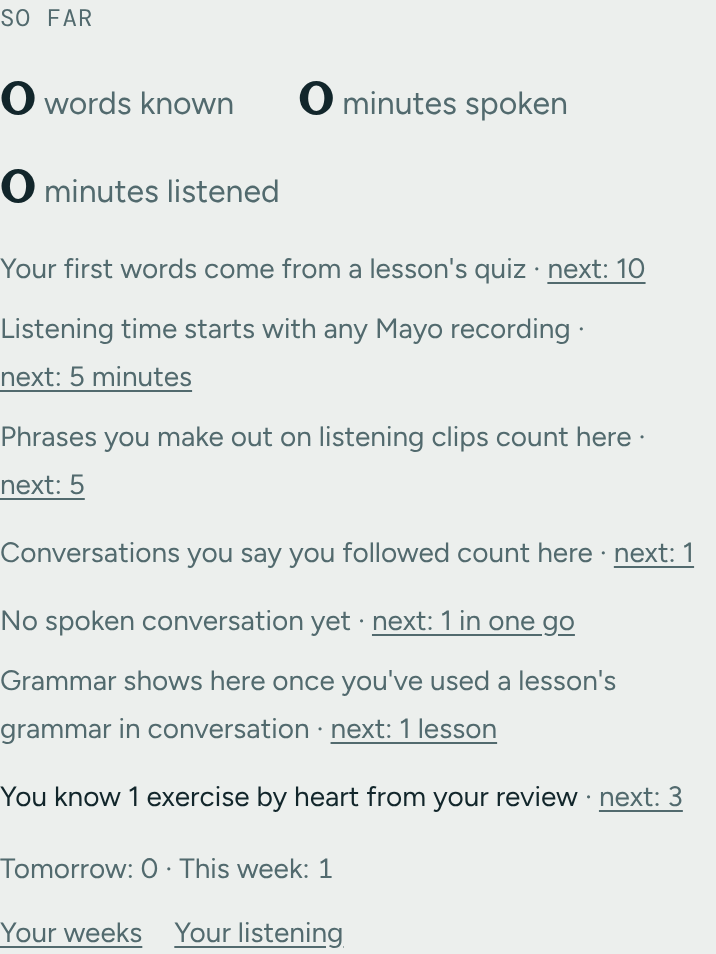
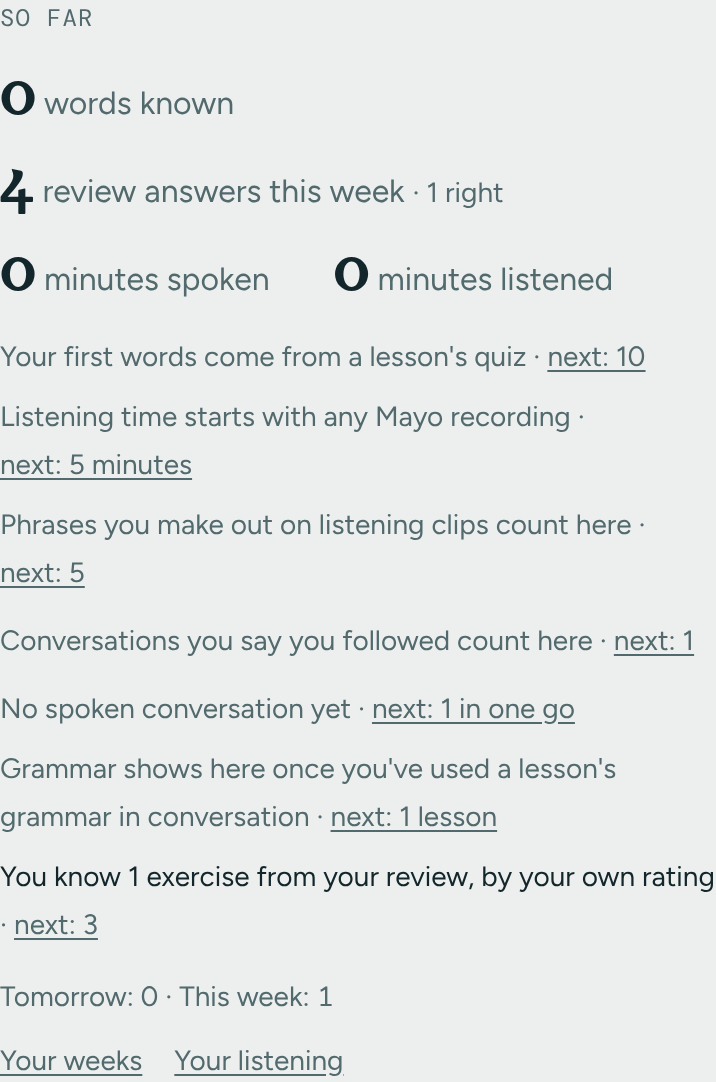
Review fixes: honest copy for a self-rated count, tests for each filter
Claude-Session: https://claude.ai/code/session_017wWQSAnFZTgdRfow7GMFq8

diff --git a/test/models/milestones_test.rb b/test/models/milestones_test.rb
@@ -150,27 +150,50 @@ class MilestonesTest < ActiveSupport::TestCase
     assert_equal 1, followed.call.reached
   end
 
+  def exercise_strand = Milestones.new(@user, known_words: 0).strands.find { |s| s.key == :exercises }
+
+  def known_review(question, stability: QuizReview::KNOWN_STABILITY)
+    QuizReview.create!(user: @user, quiz_question: question, fsrs_state: QuizReview::REVIEW_STATE, stability: stability, due_at: 1.day.from_now)
+  end
+
   test "exercises known count once the course has an answered exercise" do
     assert_not_includes Milestones.new(@user, known_words: 0).strands.map(&:key), :exercises
 
     exercise = exercises(:one)
     exercise.update!(answer: "Dia dhuit")
     QuizQuestion.sync_for(lessons(:one))
-    strand = Milestones.new(@user, known_words: 0).strands.find { |s| s.key == :exercises }
-    assert_equal 0, strand.value
-    assert_equal 1, strand.next_step
+    assert_equal 0, exercise_strand.value
+    assert_equal 1, exercise_strand.next_step
 
-    question = QuizQuestion.find_by!(source: exercise)
-    review = QuizReview.create!(user: @user, quiz_question: question, fsrs_state: QuizReview::REVIEW_STATE, stability: 3.0, due_at: 1.day.from_now)
-    assert_equal 0, Milestones.new(@user, known_words: 0).strands.find { |s| s.key == :exercises }.value, "not yet stable"
+    review = known_review(QuizQuestion.find_by!(source: exercise), stability: 3.0)
+    assert_equal 0, exercise_strand.value, "not yet stable"
 
     review.update!(stability: QuizReview::KNOWN_STABILITY)
-    strand = Milestones.new(@user, known_words: 0).strands.find { |s| s.key == :exercises }
-    assert_equal 1, strand.value
-    assert_equal 1, strand.reached
-    assert_equal 3, strand.next_step
+    assert_equal 1, exercise_strand.value
+    assert_equal 1, exercise_strand.reached
+    assert_equal 3, exercise_strand.next_step
 
     exercise.update!(answer: "")
     assert_not_includes Milestones.new(@user, known_words: 0).strands.map(&:key), :exercises
+  end
+
+  test "known words, exercises whose answer was removed and exercises in hidden lessons don't count" do
+    lessons(:one).exercises.create!(number: 2, prompt: "Another", answer: "Freagra", position: 2)
+    exercise = exercises(:one)
+    exercise.update!(answer: "Dia dhuit")
+    QuizQuestion.sync_for(lessons(:one))
+    known_review(lessons(:one).quiz_questions.word_cards.first)
+    known_review(QuizQuestion.find_by!(source: exercise))
+    assert_equal 1, exercise_strand.value
+
+    exercise.update!(answer: "")
+    assert_equal 0, exercise_strand.value, "the other answered exercise keeps the line"
+
+    exercise.update!(answer: "Dia dhuit")
+    hidden = Lesson.create!(number: 97, title: "Hidden", lesson_type: "curriculum", position: 97, published: false)
+    hidden_exercise = hidden.exercises.create!(number: 1, prompt: "Hidden", answer: "Folaithe", position: 1)
+    QuizQuestion.sync_for(hidden)
+    known_review(QuizQuestion.find_by!(source: hidden_exercise))
+    assert_equal 1, exercise_strand.value
   end
 end

diff --git a/test/controllers/home_controller_test.rb b/test/controllers/home_controller_test.rb
@@ -240,7 +240,7 @@ class HomeControllerTest < ActionDispatch::IntegrationTest
     sign_in_as(users(:two))
 
     get root_path
-    assert_select "li", text: /You know 1 exercise by heart from your review.*next: 3/m do
+    assert_select "li", text: /You know 1 exercise from your review, by your own rating.*next: 3/m do
       assert_select "a[href=?]", review_path
     end
   end
